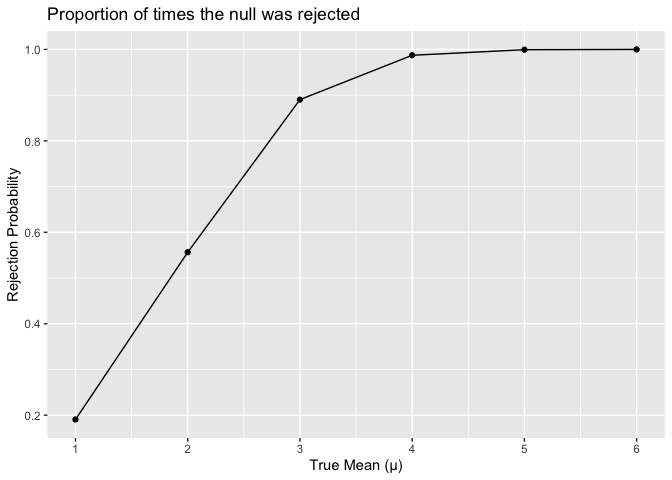
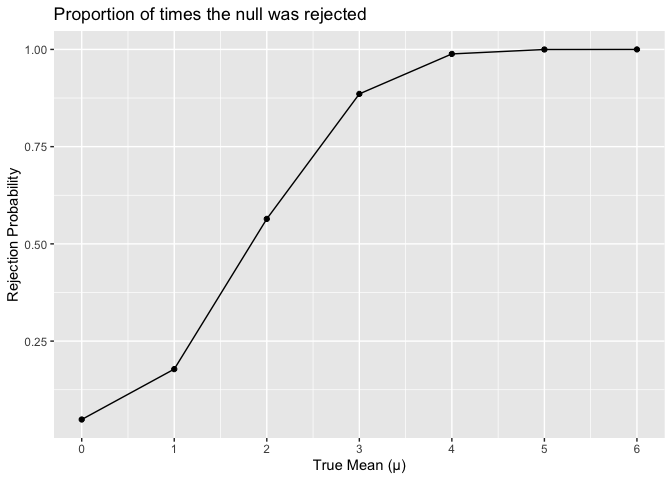
final commit

diff --git a/p8105_hw5_wz2630.md b/p8105_hw5_wz2630.md
@@ -1,6 +1,5 @@
 P8105_hw5_wz2630
 ================
-2023-11-15
 
 ``` r
 # Intall packages
@@ -10,11 +9,11 @@ library(purrr)
 library(ggplot2)
 ```
 
-## Problem 1
+# Problem 1
 
 (not graded)
 
-## Problem 2
+# Problem 2
 
 Longitudinal study
 
@@ -80,7 +79,7 @@ experimental arm which has an overall increasing trend. The control arm
 also has much more variability and fluctuations throughout the 8 weeks
 with no apparent trend.
 
-## Problem 3
+# Problem 3
 
 Simulation to explore power in a one-sample t-test
 
@@ -119,13 +118,13 @@ Repeat the above for μ = {1,2,3,4,5,6}
 
 ``` r
 more_ttest_sim = 
-  expand_grid(mu_vals = c(1, 2, 3, 4, 5, 6), 
+  expand_grid(mu_vals = c(0, 1, 2, 3, 4, 5, 6), 
               iter = 1:5000) |> 
   mutate(estimates_data = map(mu_vals, ~sim_t_test(n = 30, mu = .))) |> 
   unnest(cols = c(estimates_data))
 ```
 
-**Plot 1**
+## Plot 1
 
 Make a plot showing the proportion of times the null was rejected (the
 power of the test) on the y axis and the true value of μ on the x axis.
@@ -139,7 +138,7 @@ plot1 =
     geom_point() + 
     geom_line() + 
     labs(x = 'True Mean (μ)', y = 'Rejection Probability', title = 'Proportion of times the null was rejected') + 
-    scale_x_continuous(limits = c(1, 6), breaks = seq(1, 6, 1))
+    scale_x_continuous(limits = c(0, 6), breaks = seq(0, 6, 1))
 
 plot1
 ```
@@ -154,7 +153,7 @@ increase. This is because a larger effect size is associated with
 increased statistical power, making it easier to detect a statistically
 significant difference.
 
-**Plot 2**
+## Plot 2
 
 Make a plot showing the average estimate of μ̂ on the y axis and the true
 value of μ on the x axis.
@@ -192,7 +191,7 @@ plot2 =
   labs(x = 'True Mean (μ)', y = 'Sample Mean (μ) Estimates', 
        title = 'Rejected Average μ vs. True μ', color = "Color Coding:") + 
   scale_color_manual(values = c("Rejected Estimates" = "tomato", "True Estimate" = "darkgreen")) + 
-  scale_x_continuous(limits = c(1, 6), breaks = seq(1, 6, 1)) + 
+  scale_x_continuous(limits = c(0, 6), breaks = seq(0, 6, 1)) + 
   theme(legend.position = "bottom")
   
 plot2
